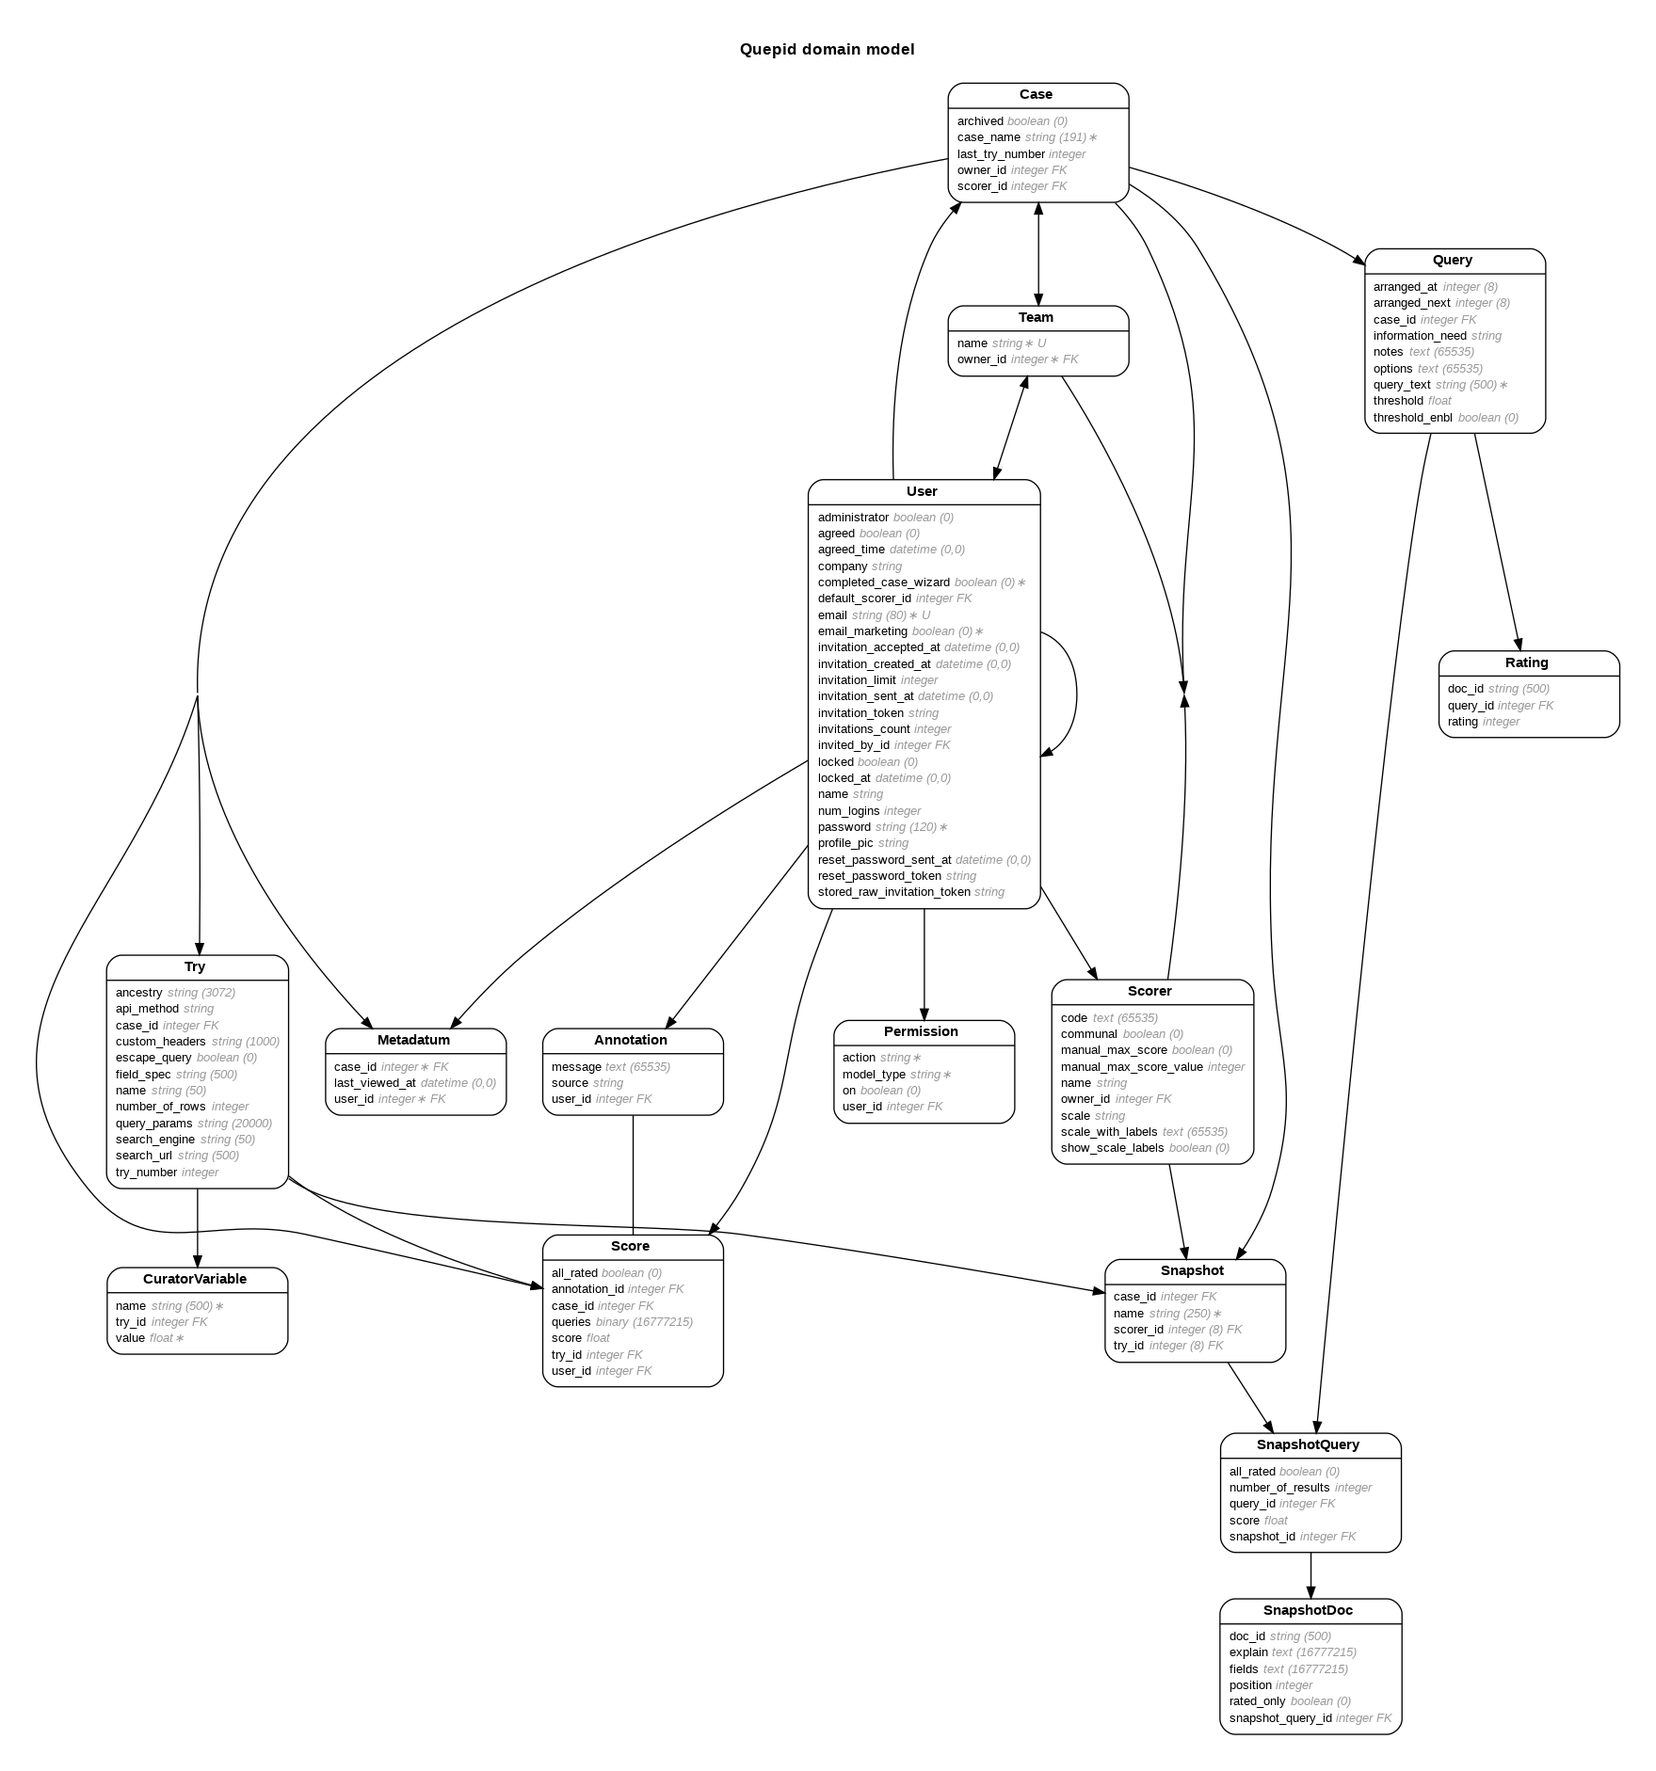
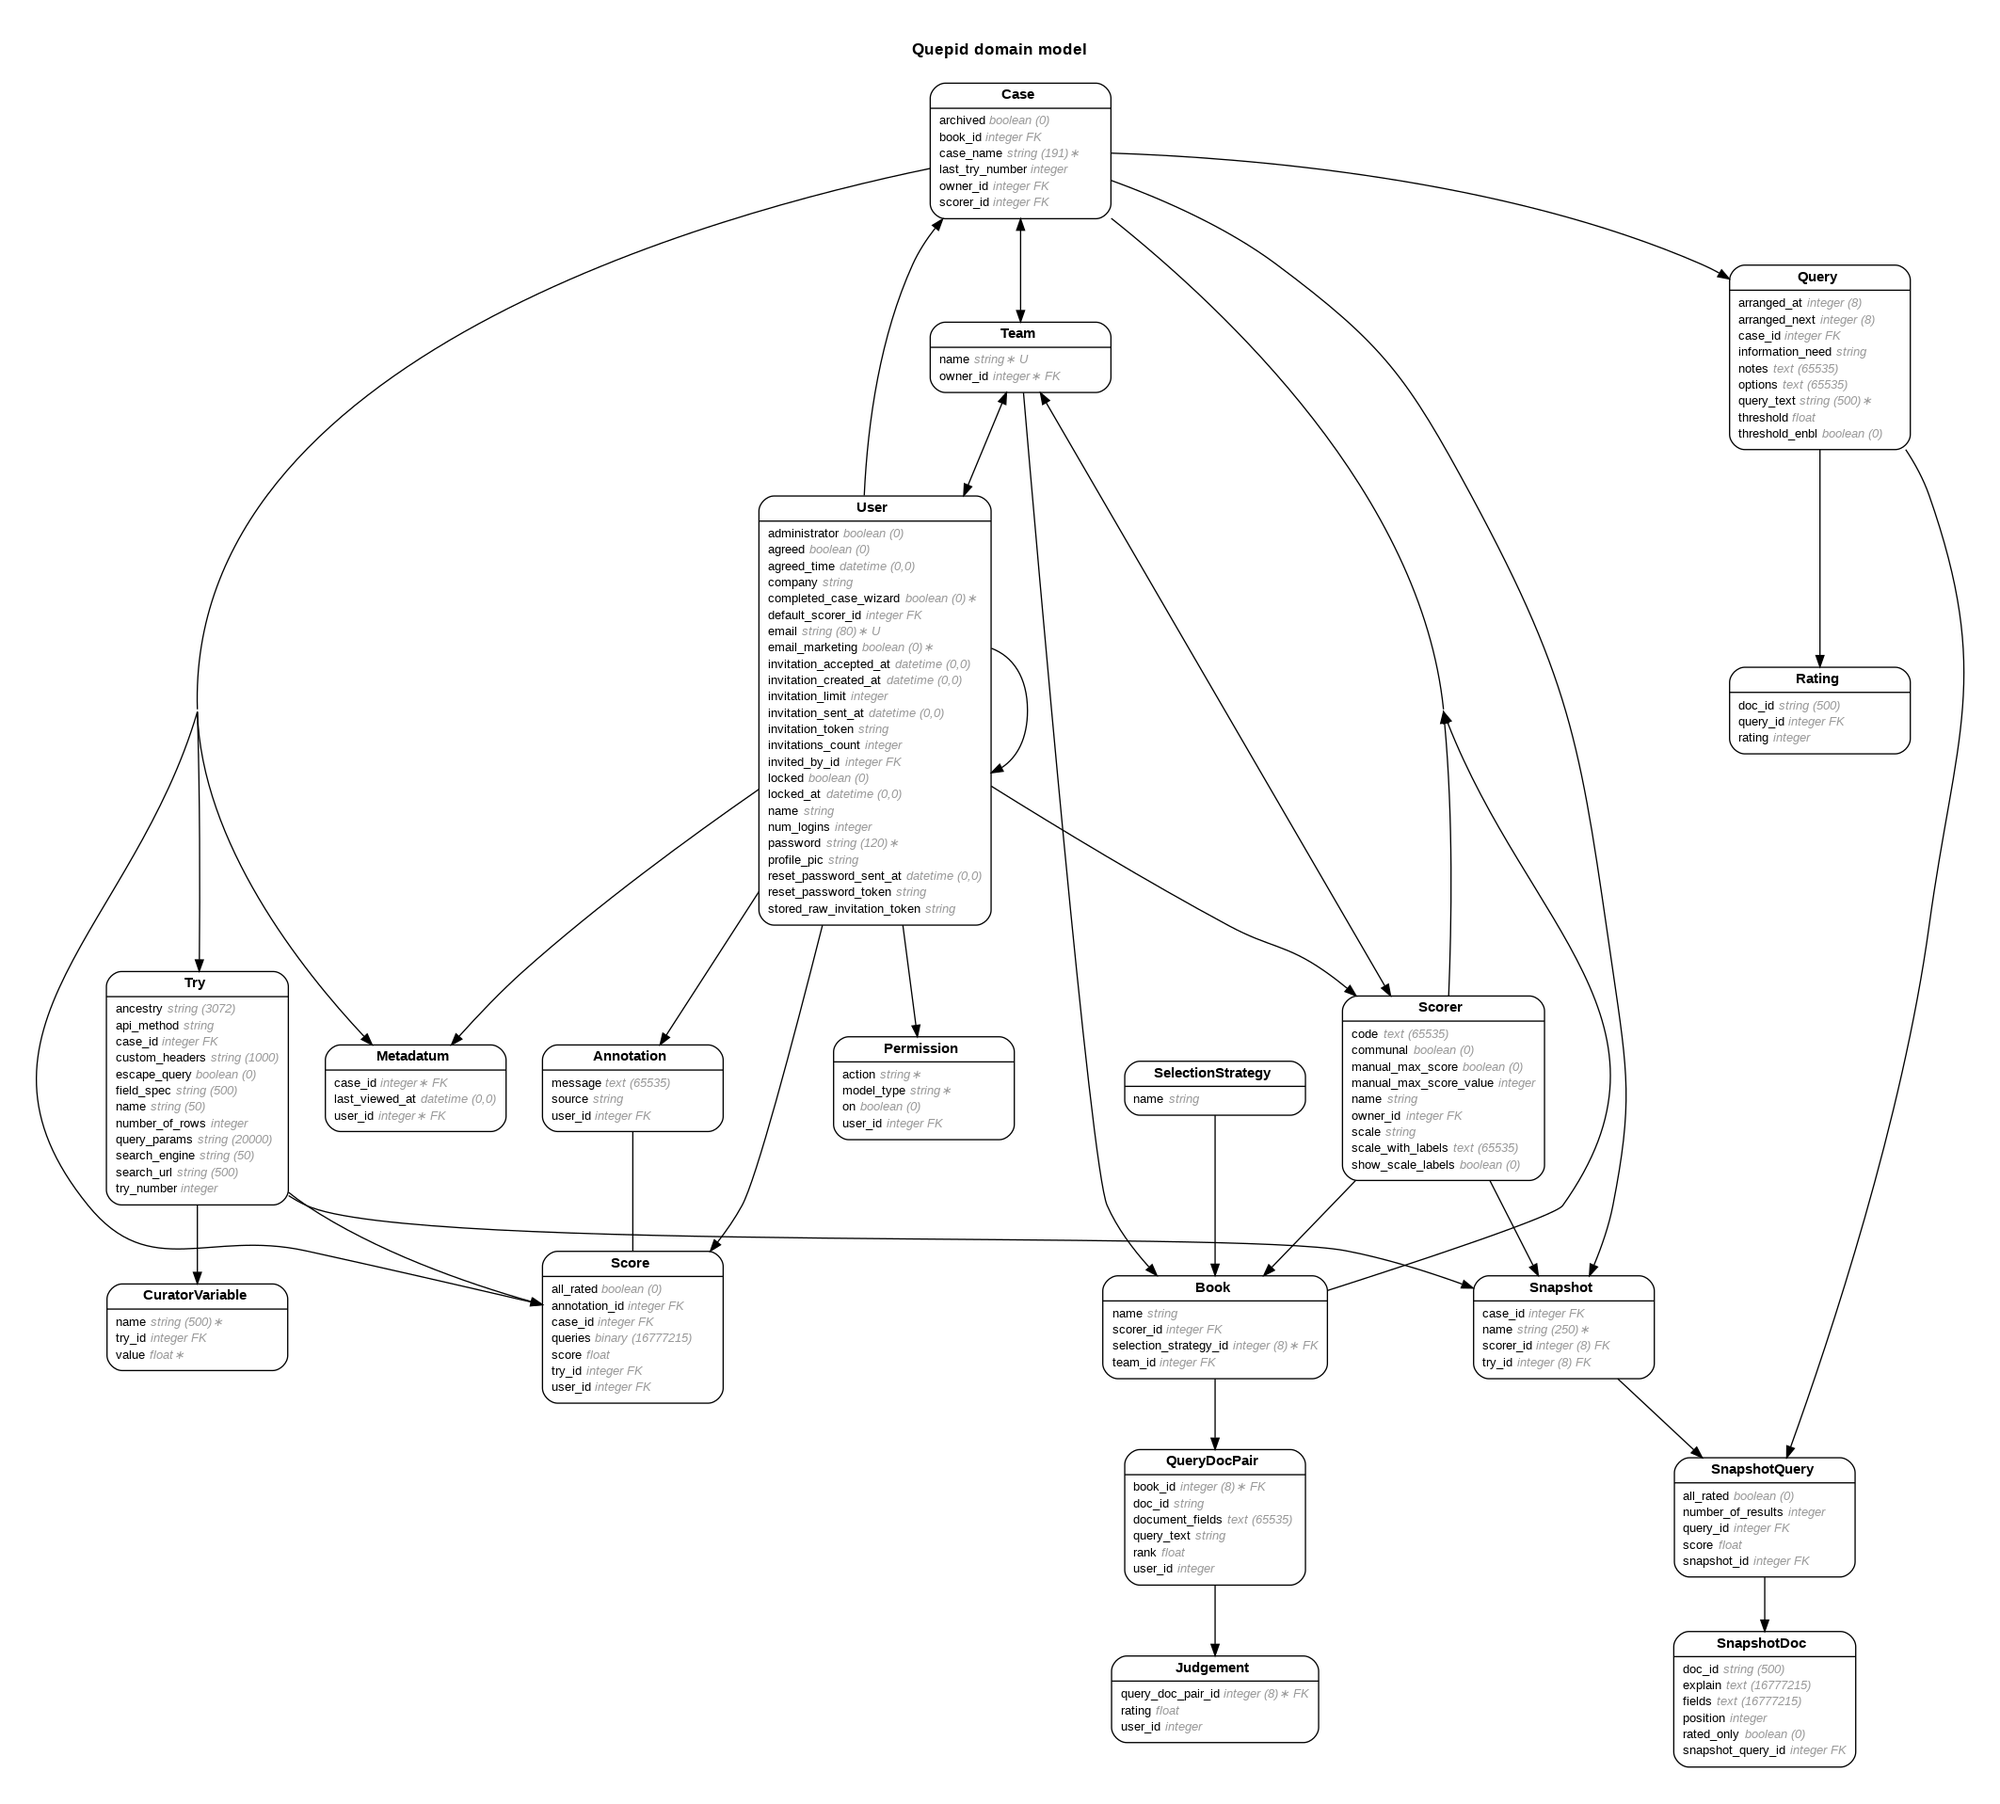
now able to track the book associated with a case....

diff --git a/app/assets/javascripts/components/populate_judgements/populate_judgements_modal_instance_controller.js b/app/assets/javascripts/components/populate_judgements/populate_judgements_modal_instance_controller.js
@@ -32,7 +32,7 @@ angular.module('QuepidApp')
         }
       });
 
-      ctrl.activeBook = null;
+
 
       ctrl.share = {
         acase:            acase,
@@ -40,6 +40,8 @@ angular.module('QuepidApp')
         teams:            [],
         loading:          true,
       };
+
+      ctrl.activeBookId = acase.bookId;
 
       $scope.selectBook      = selectBook;
 
@@ -49,9 +51,9 @@ angular.module('QuepidApp')
         $log.info('selected book: ' + name);
 
         if (!book) {
-          ctrl.activeBook = null;
+          ctrl.activeBookId = null;
         } else {
-          ctrl.activeBook = book;
+          ctrl.activeBookId = book.id;
         }
       }
 
@@ -78,6 +80,7 @@ angular.module('QuepidApp')
         // ERic: unclear if we care about the sharing status of a case or not!
         ctrl.share.teams.push(team);
       };
+
 
       teamSvc.list(false)
         .then(function() {

diff --git a/app/assets/javascripts/components/populate_judgements/_modal.html b/app/assets/javascripts/components/populate_judgements/_modal.html
@@ -45,7 +45,7 @@
       Create a book
     </a>
   </div>
-
+hi: {{ctrl.share.acase.bookId}} | hi: {{ctrl.activeBookId}}
   <div ng-show="ctrl.share.books.length > 0 && !ctrl.share.loading">
     <div>
       <h4>Select a Book of Judgements to be populated from this Case:</h4>
@@ -53,7 +53,7 @@
       <ul class="list-group">
         <li class="list-group-item"
           ng-repeat="book in ctrl.share.books track by book.name"
-          ng-class="{ active: book.id === ctrl.activeBook.id }"
+          ng-class="{ active: book.id === ctrl.activeBookId }"
           ng-click="selectBook(book)">
           {{book.name}}
         </li>

diff --git a/app/assets/javascripts/services/caseSvc.js b/app/assets/javascripts/services/caseSvc.js
@@ -47,6 +47,7 @@ angular.module('QuepidApp')
         theCase.scorerId          = data.scorerId;
         theCase.owned             = data.owned;
         theCase.ownerName         = data.owner_name;
+        theCase.bookId            = data.bookId;
         theCase.queriesCount      = data.queriesCount;
         theCase.teams             = data.teams || [];
         theCase.tries             = data.tries || [];

diff --git a/db/schema.rb b/db/schema.rb
@@ -10,7 +10,7 @@
 #
 # It's strongly recommended that you check this file into your version control system.
 
-ActiveRecord::Schema.define(version: 2022_11_30_192356) do
+ActiveRecord::Schema.define(version: 2022_12_03_171213) do
 
   create_table "annotations", id: :integer, charset: "utf8", force: :cascade do |t|
     t.text "message"
@@ -62,6 +62,7 @@ ActiveRecord::Schema.define(version: 2022_11_30_192356) do
     t.integer "scorer_id"
     t.datetime "created_at", null: false
     t.datetime "updated_at", null: false
+    t.integer "book_id"
     t.index ["owner_id"], name: "user_id"
   end
 

diff --git a/app/models/case.rb b/app/models/case.rb
@@ -10,6 +10,7 @@
 #  last_try_number :integer
 #  created_at      :datetime         not null
 #  updated_at      :datetime         not null
+#  book_id         :integer
 #  owner_id        :integer
 #  scorer_id       :integer
 #
@@ -62,6 +63,8 @@ class Case < ApplicationRecord
   has_many   :annotations,
              through:   :scores,
              dependent: :destroy
+
+  belongs_to  :book, optional: true
 
   # Validations
   validates :case_name, presence: true

diff --git a/test/models/case_test.rb b/test/models/case_test.rb
@@ -10,6 +10,7 @@
 #  last_try_number :integer
 #  created_at      :datetime         not null
 #  updated_at      :datetime         not null
+#  book_id         :integer
 #  owner_id        :integer
 #  scorer_id       :integer
 #

diff --git a/db/migrate/20221203171213_add_book_to_cases.rb b/db/migrate/20221203171213_add_book_to_cases.rb
@@ -1,0 +1,5 @@
+class AddBookToCases < ActiveRecord::Migration[6.1]
+  def change
+    add_column :cases, :book_id, :int
+  end
+end
